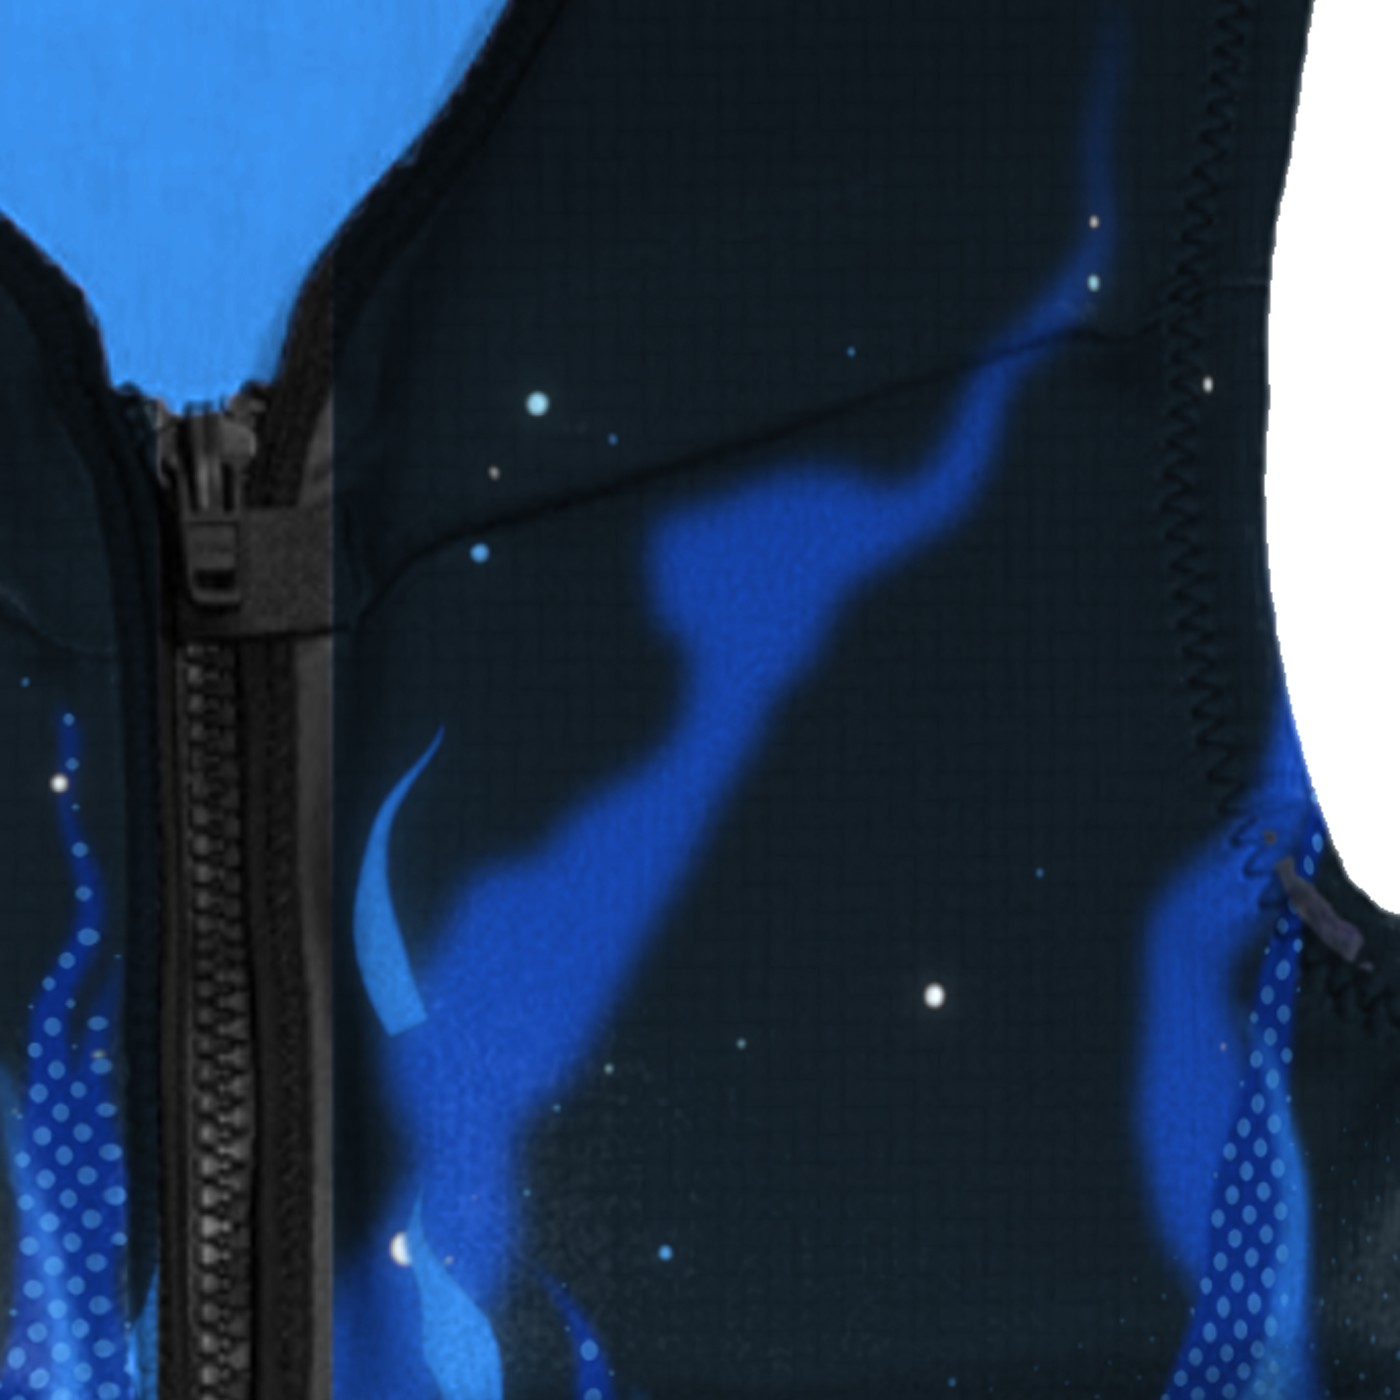
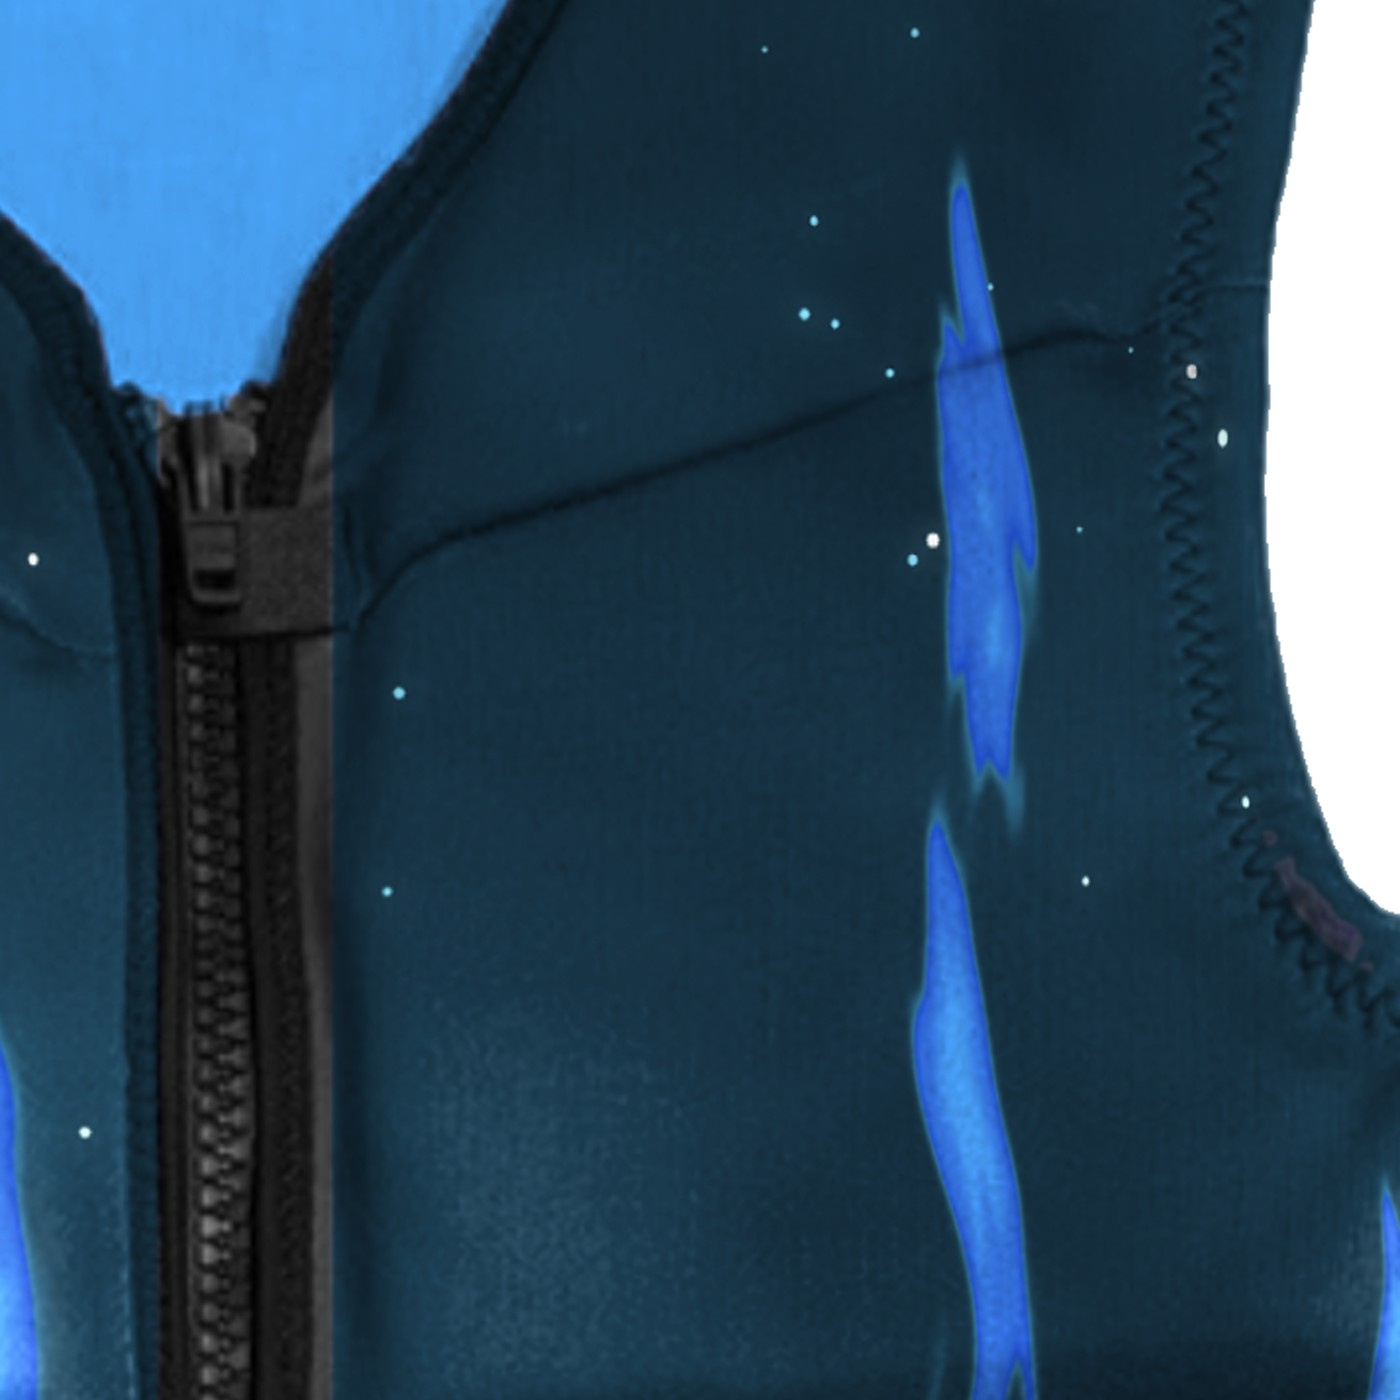
Blue Flame '88: fresh blue fire design in the reference palette
Claude-Session: https://claude.ai/code/session_0127vMjnJRYBY8RJT8fGrYSF

diff --git a/config.js b/config.js
@@ -2,7 +2,7 @@
 // The logo artwork is in /brand (swap those SVG/PNG files if the name changes).
 window.SITE = {
   // Bump this whenever you replace a vest image (same filename) so browsers fetch the new one
-  imgVersion: 14,
+  imgVersion: 15,
 
   brand: {
     name: "Stinger",
@@ -145,9 +145,9 @@ window.SITE = {
       id: "blueflame88",
       img: "blueflame",
       name: "Blue Flame '88",
-      kicker: "Icy blue flames",
-      blurb: "The Redline fire burning blue: deep cerulean edges, sky-blue tongues and icy white cores, licking up the other way over a dark teal-navy ground. Blue lining.",
-      glow: "#1E6BFF",
+      kicker: "Blue fire",
+      blurb: "Royal blue and cerulean flames with icy white cores, climbing highest up the sides and fading into teal smoke and sparks across the chest. Sky-blue lining.",
+      glow: "#489EEF",
       noBack: true, // no back photo yet: hide the back view
     },
 
